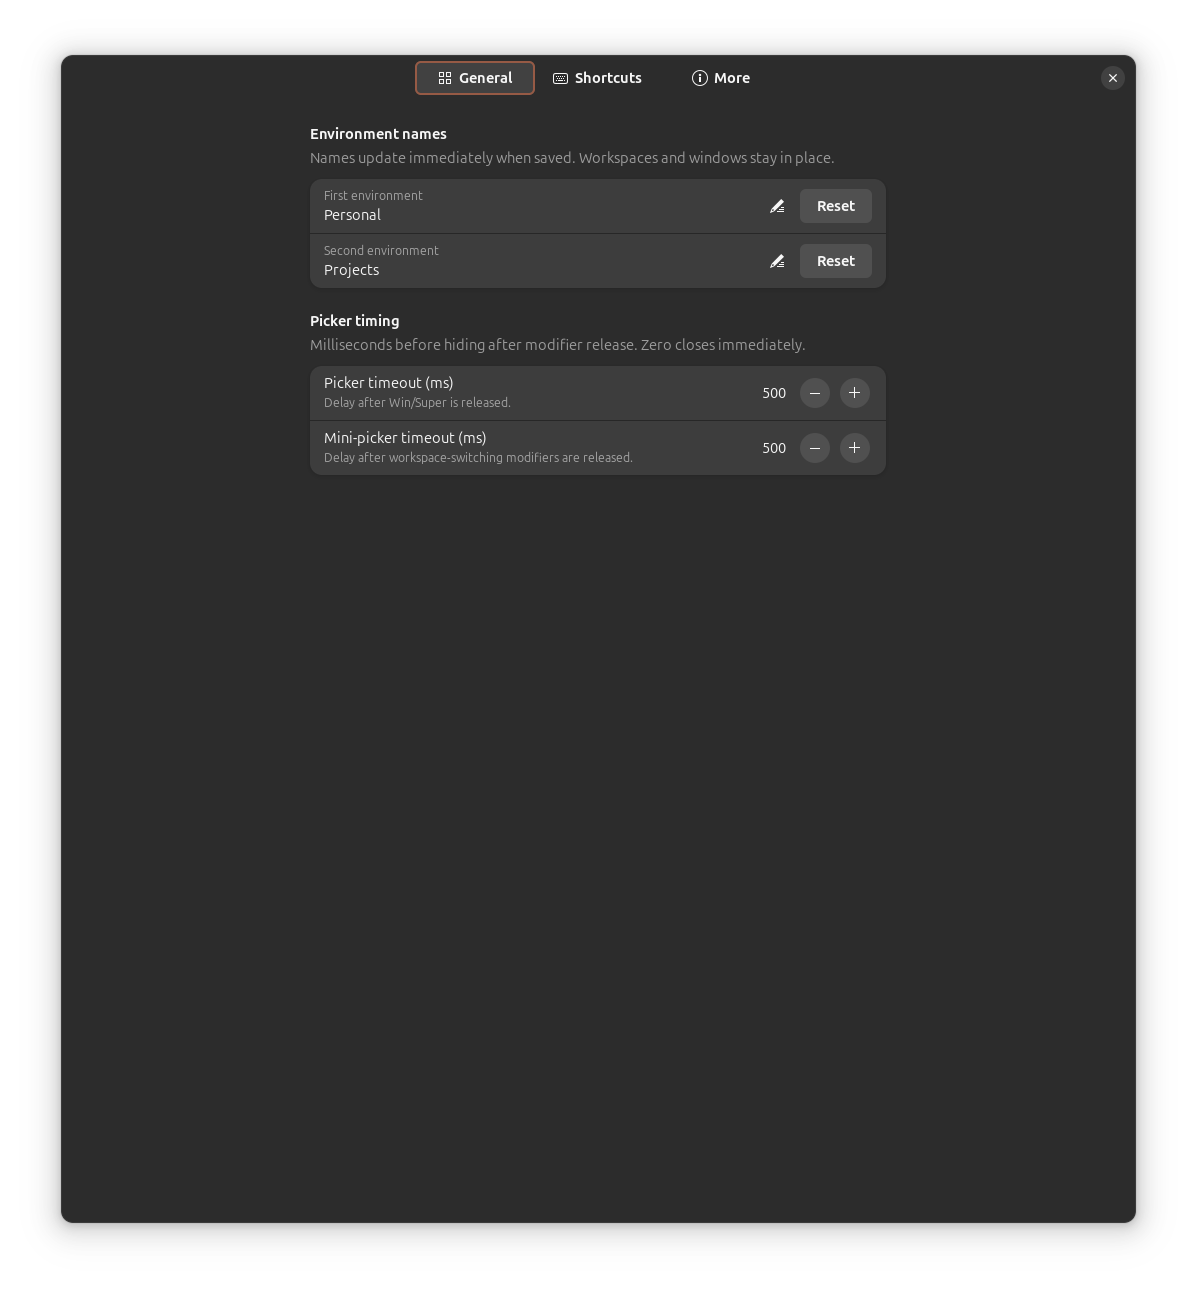
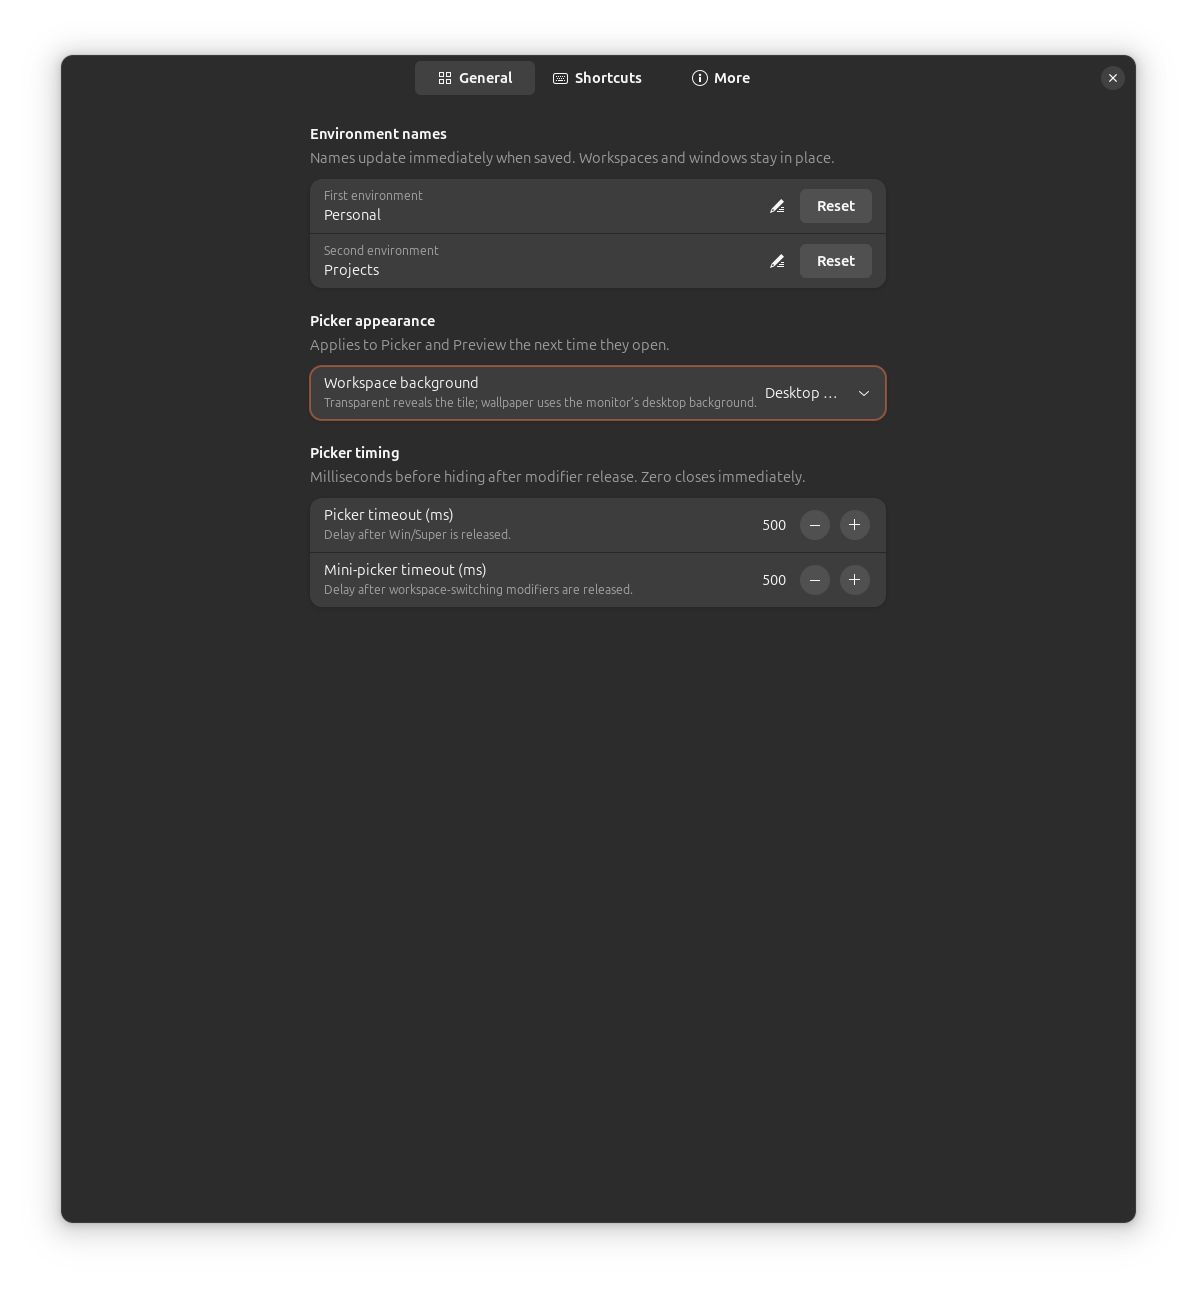
Release 0.2.1 with wallpaper previews and website cache busting

diff --git a/tests/previewBackground.test.js b/tests/previewBackground.test.js
@@ -1,0 +1,82 @@
+import test from 'node:test';
+import assert from 'node:assert/strict';
+import { loadRuntime } from './helpers.js';
+
+function fixture(mode) {
+  let parameters;
+  let destroyed = 0;
+  const children = [];
+  const handlers = {};
+  const preview = {
+    set_style(style) {
+      this.style = style;
+    },
+    add_child(actor) {
+      children.push(actor);
+    },
+    connect(signal, callback) {
+      handlers[signal] = callback;
+    },
+  };
+  const { addPreviewBackground } = loadRuntime('previewBackground.js', ['addPreviewBackground'], {
+    St: {
+      Widget: class {
+        constructor(props) {
+          Object.assign(this, props);
+        }
+        set_scale(x, y) {
+          this.scale = [x, y];
+        }
+      },
+    },
+    Clutter: { BinLayout: class {} },
+    Background: {
+      BackgroundManager: class {
+        constructor(props) {
+          parameters = props;
+        }
+        destroy() {
+          destroyed++;
+        }
+      },
+    },
+  });
+  addPreviewBackground(
+    preview,
+    { get_uint: () => mode },
+    { index: 2, width: 1920, height: 1080 },
+    190,
+    115,
+  );
+  return { preview, children, handlers, parameters, destroyed: () => destroyed };
+}
+
+test('transparent and brighter previews do not allocate wallpaper resources', () => {
+  for (const [mode, color] of [
+    [0, 'transparent'],
+    [2, '#e9e7e5'],
+  ]) {
+    const f = fixture(mode);
+    assert.ok(f.preview.style.includes(color));
+    assert.equal(f.children.length, 0);
+    assert.equal(f.parameters, undefined);
+  }
+});
+
+test('wallpaper uses the correct monitor, scales its full composition and releases resources', () => {
+  const f = fixture(1);
+  assert.equal(f.parameters.monitorIndex, 2);
+  assert.equal(f.parameters.controlPosition, false);
+  assert.equal(f.parameters.useContentSize, false);
+  assert.equal(f.parameters.vignette, false);
+  assert.equal(f.children[0].width, 1920);
+  assert.equal(f.children[0].height, 1080);
+  assert.deepEqual(f.children[0].scale, [190 / 1920, 115 / 1080]);
+  assert.equal(f.parameters.container, f.children[0]);
+  f.handlers.destroy();
+  assert.equal(f.destroyed(), 1);
+});
+
+test('desktop wallpaper is the default when no background choice is available', () => {
+  assert.equal(fixture(undefined).parameters.monitorIndex, 2);
+});

diff --git a/site/index.html b/site/index.html
@@ -12,7 +12,7 @@
     <meta name="theme-color" content="#211E22" media="(prefers-color-scheme: dark)" />
     <title>Environments Switcher — a place for work, a place for everything else</title>
     <link rel="icon" href="assets/icon.svg" type="image/svg+xml" />
-    <link rel="stylesheet" href="styles.css" />
+    <link rel="stylesheet" href="styles.css?v=8c33b31e810762d5" />
     <script type="module" src="app.js"></script>
   </head>
   <body>
@@ -47,7 +47,7 @@
               >Take a closer look <span aria-hidden="true">↗</span></a
             >
           </div>
-          <p class="release-note">v0.2.0 <span>·</span> Open source <span>·</span> MIT licensed</p>
+          <p class="release-note">v0.2.1 <span>·</span> Open source <span>·</span> MIT licensed</p>
         </div>
         <figure
           class="workspace-art"
@@ -265,7 +265,7 @@
               <figure class="gallery-slide">
                 <div class="image-stage">
                   <img
-                    src="assets/media/settings-general.png"
+                    src="assets/media/settings-general.png?v=0.2.1"
                     alt="General settings with display names and picker timeout controls"
                     loading="lazy"
                   />
@@ -402,7 +402,7 @@
             <p class="eyebrow">Make room for your next task</p>
             <h2 id="install-title">Start with a little separation.</h2>
             <p>
-              Version 0.2.0 targets GNOME Shell 46. Choose the installation method that suits you.
+              Version 0.2.1 targets GNOME Shell 46. Choose the installation method that suits you.
             </p>
           </div>
           <div class="install-grid">
@@ -527,7 +527,7 @@ gnome-extensions enable environments-switcher@ihoru.github.io</code></pre>
       </section>
     </main>
     <footer class="wrap site-footer">
-      <p>Environments Switcher <span>·</span> v0.2.0</p>
+      <p>Environments Switcher <span>·</span> v0.2.1</p>
       <p>Author: <a href="mailto:ihor.polyakov@gmail.com">Igor Polyakov</a></p>
       <p>
         <a href="https://github.com/ihoru/gnome-environments-switcher/blob/main/LICENSE"

diff --git a/src/previewBackground.js b/src/previewBackground.js
@@ -1,0 +1,33 @@
+// SPDX-License-Identifier: MIT
+
+import Clutter from 'gi://Clutter';
+import St from 'gi://St';
+import * as Background from 'resource:///org/gnome/shell/ui/background.js';
+
+// The same background treatment sits beneath window clones in both pickers.
+export function addPreviewBackground(preview, settings, monitor, width, height) {
+  const mode = settings?.get_uint?.('preview-background') ?? 1;
+  preview.set_style(
+    `background-color: ${mode === 2 ? '#e9e7e5' : 'transparent'}; border-radius: 4px;`,
+  );
+  if (mode !== 1) return;
+
+  // Preserve GNOME's monitor-sized wallpaper composition, then scale the whole
+  // layer to the thumbnail rather than recropping the image to its aspect ratio.
+  const layer = new St.Widget({
+    width: monitor.width,
+    height: monitor.height,
+    layout_manager: new Clutter.BinLayout(),
+    reactive: false,
+  });
+  layer.set_scale(width / monitor.width, height / monitor.height);
+  preview.add_child(layer);
+  const manager = new Background.BackgroundManager({
+    container: layer,
+    monitorIndex: monitor.index,
+    controlPosition: false,
+    useContentSize: false,
+    vignette: false,
+  });
+  preview.connect('destroy', () => manager.destroy());
+}

diff --git a/src/prefs.js b/src/prefs.js
@@ -108,6 +108,23 @@ export default class EnvironmentsPreferences extends ExtensionPreferences {
       names.add(error);
     }
 
+    const appearance = new Adw.PreferencesGroup({
+      title: 'Picker appearance',
+      description: 'Applies to Picker and Preview the next time they open.',
+    });
+    namesPage.add(appearance);
+    const background = new Adw.ComboRow({
+      title: 'Workspace background',
+      subtitle: 'Transparent reveals the tile; wallpaper uses the monitor’s desktop background.',
+      model: Gtk.StringList.new(['Transparent', 'Desktop wallpaper', 'Brighter color']),
+    });
+    settings.bind('preview-background', background, 'selected', Gio.SettingsBindFlags.DEFAULT);
+    appearance.add(background);
+    window.connect('close-request', () => {
+      Gio.Settings.unbind(background, 'selected');
+      return false;
+    });
+
     const timing = new Adw.PreferencesGroup({
       title: 'Picker timing',
       description: 'Milliseconds before hiding after modifier release. Zero closes immediately.',

diff --git a/src/miniPicker.js b/src/miniPicker.js
@@ -3,6 +3,7 @@
 import Clutter from 'gi://Clutter';
 import GLib from 'gi://GLib';
 import St from 'gi://St';
+import { addPreviewBackground } from './previewBackground.js';
 import * as Main from 'resource:///org/gnome/shell/ui/main.js';
 
 // Passive shortcut feedback: never grabs input or changes window focus.
@@ -68,9 +69,9 @@ export class MiniPicker {
               width,
               height,
               clip_to_allocation: true,
-              style: 'background-color: #20242c;',
             });
             tile.add_child(preview);
+            addPreviewBackground(preview, ext._settings, monitor, width, height);
             const workspace = ext._getWorkspaceByIndex(physical);
             const windows =
               workspace

diff --git a/src/workspacePicker.js b/src/workspacePicker.js
@@ -3,6 +3,7 @@
 import Clutter from 'gi://Clutter';
 import GLib from 'gi://GLib';
 import St from 'gi://St';
+import { addPreviewBackground } from './previewBackground.js';
 import * as Main from 'resource:///org/gnome/shell/ui/main.js';
 import * as ModalDialog from 'resource:///org/gnome/shell/ui/modalDialog.js';
 
@@ -231,9 +232,9 @@ export class WorkspacePicker {
           width: tileWidth,
           height: tileHeight,
           clip_to_allocation: true,
-          style: 'background-color: #242830; border-radius: 4px;',
         });
         content.add_child(preview);
+        addPreviewBackground(preview, ext._settings, monitor, tileWidth, tileHeight);
         const windows =
           workspace
             ?.list_windows()

diff --git a/site/media.js b/site/media.js
@@ -30,7 +30,7 @@ export const media = {
     {
       title: 'Settings — General',
       label: 'Names & timing',
-      src: 'assets/media/settings-general.png',
+      src: 'assets/media/settings-general.png?v=0.2.1',
       alt: 'General settings with display names and picker timeout controls',
       caption: 'Environment names and picker timing.',
       symbol: '⚙',

diff --git a/scripts/version_site_css.py b/scripts/version_site_css.py
@@ -1,0 +1,24 @@
+"""Refresh the stylesheet URL whenever its contents change."""
+
+import hashlib
+from pathlib import Path
+import re
+
+
+def version_stylesheet(site):
+    digest = hashlib.sha256((site / "styles.css").read_bytes()).hexdigest()[:16]
+    index = site / "index.html"
+    original = index.read_text()
+    updated, count = re.subn(
+        r'href="styles\.css(?:\?v=[a-f0-9]+)?"',
+        f'href="styles.css?v={digest}"',
+        original,
+    )
+    if count != 1:
+        raise ValueError("Expected exactly one styles.css link in site/index.html")
+    if updated != original:
+        index.write_text(updated)
+
+
+if __name__ == "__main__":
+    version_stylesheet(Path(__file__).resolve().parents[1] / "site")

diff --git a/scripts/validate.py b/scripts/validate.py
@@ -10,7 +10,7 @@ SOURCE = ROOT / "src"
 UUID = "environments-switcher@ihoru.github.io"
 SCHEMA = "org.gnome.shell.extensions.environments-switcher"
 RUNTIME = ["extension.js", "directionalAnimation.js", "miniPicker.js",
-           "workspacePicker.js", "settingsTransaction.js", "diagnosticLog.js"]
+           "workspacePicker.js", "previewBackground.js", "settingsTransaction.js", "diagnosticLog.js"]
 
 
 PREFERENCES = ["prefs.js", "preferencesModel.js", "preferencesExtras.js",

diff --git a/docs/WEBSITE.md b/docs/WEBSITE.md
@@ -14,6 +14,11 @@ python3 -m http.server 8000 --bind 127.0.0.1 --directory site
 
 Open `http://localhost:8000/`. Use HTTP rather than `file://` for JavaScript modules.
 Run `npm run check` for formatting, JavaScript lint, extension checks, and packaging.
+It also refreshes the CSS content hash in the stylesheet URL. After editing CSS during
+local previews, run `python3 scripts/version_site_css.py` and reload the page.
+The Pages workflow refreshes this hash before each upload, so changed CSS gets a new
+cache URL while unchanged CSS remains cacheable. An already-open page needs a reload
+to receive the new HTML and stylesheet URL.
 Browser checks should also cover narrow screens, keyboard navigation, media failures,
 and a project subpath such as `/gnome-environments-switcher/`.
 

diff --git a/docs/RELEASING.md b/docs/RELEASING.md
@@ -63,7 +63,7 @@ use `--format json` for machine-readable findings rather than relying on the exi
 
 ## Version metadata
 
-Set `src/metadata.json`'s `version-name` to the user-visible extension version (currently `0.2.0`).
+Set `src/metadata.json`'s `version-name` to the user-visible extension version (currently `0.2.1`).
 Keep it within GNOME's 1–16 character limit using letters, numbers, spaces, and periods.
 The npm package version describes development tooling; EGO assigns its own integer `version`,
 which remains omitted from source metadata.

diff --git a/CHANGELOG.md b/CHANGELOG.md
@@ -4,6 +4,18 @@ Significant user-facing and internal changes are recorded here. GNOME Extensions
 
 ## Unreleased
 
+## 0.2.1 — 2026-09-10
+
+### User-facing
+
+- Add a General preference to compare transparent, desktop wallpaper, and brighter backgrounds in Picker and Preview; use Desktop wallpaper by default while preserving explicit choices.
+
+### Internal
+
+- Add shared monitor-aware preview backgrounds with cleanup and regression coverage.
+
+## 0.2.0 — 2026-09-10
+
 ### User-facing
 
 - Introduce the project landing website.
